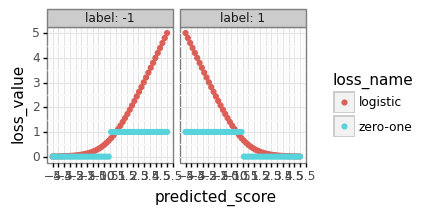
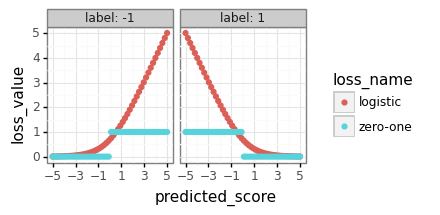
x ticks

diff --git a/_posts/2022-02-15-simplex.md b/_posts/2022-02-15-simplex.md
@@ -73,7 +73,8 @@ import plotnine as p9
 def gg_binary(x):
     return p9.ggplot()+\
         p9.facet_grid(". ~ label", labeller="label_both")+\
-        p9.scale_x_continuous(breaks=np.arange(-5, 7, 0.5))+\
+        p9.scale_x_continuous(
+            breaks=np.arange(-5, 7, 0.5 if x is "pred_prob1" else 2))+\
         p9.theme_bw()+\
         p9.theme(subplots_adjust={'right': 0.7, "bottom":0.2})+\
         p9.theme(figure_size=(4.5,2))+\
